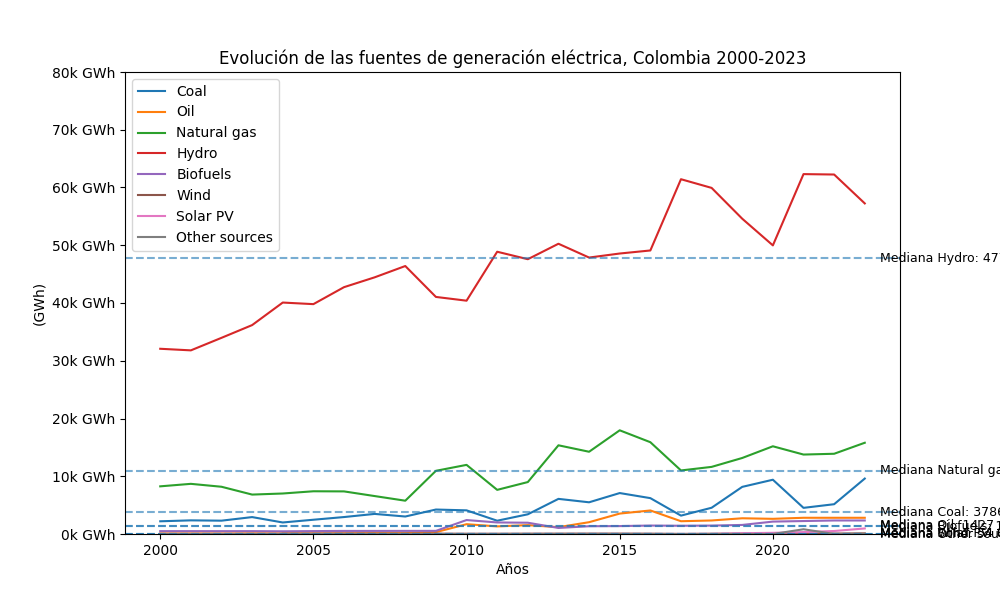
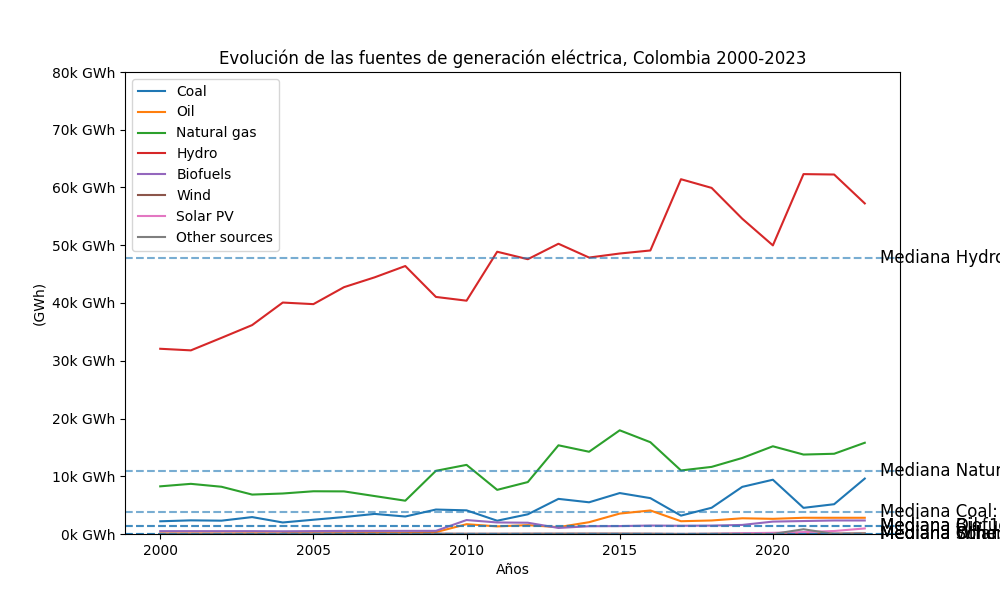
cambios

Changed region(s): [[0.868, 0.84, 1.0, 0.9], [0.868, 0.75, 1.0, 0.81], [0.868, 0.42, 1.0, 0.45]]

diff --git a/templates/medicion.html b/templates/medicion.html
@@ -7,15 +7,17 @@
     <title>Proyecto Web - Ecoconciencia</title>
 
     <!-- Favicon general -->
-    <link rel="icon" href="favicon.ico" type="image/x-icon">
-    <link rel="apple-touch-icon" sizes="180x180" href="../static/image/logo.png">
-    <link rel="icon" type="image/png" sizes="32x32" href="../static/image/logo.png">
-    <link rel="icon" type="image/png" sizes="16x16" href="../static/image/logo.png">
+    <link rel="icon" href="{{ url_for('static', filename='image/logo.png') }}" type="image/x-icon">
+    <link rel="apple-touch-icon" sizes="180x180" href="{{ url_for('static', filename='image/logo.png') }}">
+    <link rel="icon" type="image/png" sizes="32x32" href="{{ url_for('static', filename='image/logo.png') }}">
+    <link rel="icon" type="image/png" sizes="16x16" href="{{ url_for('static', filename='image/logo.png') }}">
+ 
+ <!-- Bootstrap CSS -->
+ <link href="https://cdn.jsdelivr.net/npm/bootstrap@5.3.0/dist/css/bootstrap.min.css" rel="stylesheet">
+ <link href="https://cdnjs.cloudflare.com/ajax/libs/bootstrap-icons/1.10.5/font/bootstrap-icons.min.css" rel="stylesheet">
+ <link rel="stylesheet" href="{{ url_for('static', filename='styles.css') }}">
 
-    <!-- Bootstrap CSS -->
-    <link href="https://cdn.jsdelivr.net/npm/bootstrap@5.3.0/dist/css/bootstrap.min.css" rel="stylesheet">
-    <link href="https://cdnjs.cloudflare.com/ajax/libs/bootstrap-icons/1.10.5/font/bootstrap-icons.min.css" rel="stylesheet">
-    <link rel="stylesheet" href="../static/styles.css">
+
 
     <style>
         :root {
@@ -25,9 +27,36 @@
         .bg-custom-green {
             background-color: var(--primary-color);
         }
+        .contenedor-graficas {
+            display: grid;
+            grid-template-columns: 1fr 1fr;
+            gap: 20px;
+            justify-items: center;
+            align-items: center;
+            padding: 20px;
+        }
+        .contenedor-graficas img {
+            max-width: 100%;
+            height: auto;
+            box-shadow: 0 4px 8px rgba(0, 0, 0, 0.2);
+        }
 
-         </style>
+    
+    /* Añadir límite de ancho específico para la gráfica de líneas */
+    .contenedor-grafica-lineas {
+        max-width: 100%;
+        overflow-x: auto;
+        padding: 10px;
+    }
+    .contenedor-grafica-lineas img {
+        width: 100%;  /* Ajusta el tamaño de la imagen al contenedor */
+        max-width: 800px; /* Límite de ancho para evitar desbordamiento */
+        height: auto;
+    }
 
+
+
+    </style>
 
 </head>
 
@@ -110,7 +139,7 @@
                                 </table>
                             </div>
                         </div>
-                        <div id="grafico">
+                        <div class="contenedor-graficas">                    
                             <h3>Gráfico de Barras</h3>
                             <img src="{{ url_for('static', filename='fuentes_barras.png') }}" alt="Gráfico de barras">
                             <h3>Gráfico de Torta</h3>
@@ -126,6 +155,5 @@
         </div>
     </div>
     
-    <script src="../static/script.js"></script>
-</body>
+    <script src="{{ url_for('static', filename='script.js') }}"></script>
 </html>

diff --git a/Estadistica0.py b/Estadistica0.py
@@ -16,7 +16,15 @@ def indexDos():
 
 @app.route('/medicion.html')
 def medicion():
-    return render_template('medicion.html')
+    # Leer el archivo CSV que contiene los datos de los países
+    df_paises = pd.read_csv('TuArchivoConPaises.csv')  # Cambia esto por tu archivo CSV
+    paises = df_paises['NombreDelPais'].unique().tolist()  # Cambia 'NombreDelPais' por el nombre real de la columna
+
+    # Enviar los datos a la plantilla
+    return render_template('medicion.html', paises=paises)
+
+
+
 
 @app.route('/contacto.html')
 def contacto():
@@ -75,7 +83,7 @@ colores_personalizados = ['#13f310', '#1032f3', '#641e16', '#f310d4']
 explode = (0.4, 0.2, 0.6, 1.2)
 
 ax.pie(Valores, labels=Fuentes, autopct='%1.1f%%', colors=colores_personalizados, startangle=0.85, explode=explode, pctdistance=0.90, labeldistance=1.07, shadow=True, textprops={'fontsize': 10})
-plt.title('Producción de Energia por fuente renovable (promedio del 2004-2021)', fontsize=14)
+plt.title('Producción de Energia por fuente renovable (2004-2021)', fontsize=12)
 ax.axis('equal')
 
 plt.savefig('static/fuentes_torta.png')
@@ -90,7 +98,7 @@ for fuente in df2['Fuentes'].unique():
     ax.plot(subset['Year'], subset['Value'], label=fuente)
     mediana = subset['Value'].median()
     ax.axhline(y=mediana, linestyle='--', alpha=0.6)
-    ax.text(subset['Year'].iloc[-1] + 0.5, mediana, f'Mediana {fuente}: {int(mediana)} GWh', fontsize=9, verticalalignment='center')
+    ax.text(subset['Year'].iloc[-1] + 0.5, mediana, f'Mediana {fuente}: {int(mediana)} GWh', fontsize=12, verticalalignment='center')
 
   # Leyenda
 ax.legend(loc='upper left', bbox_to_anchor=(1, 1))  # Mover la leyenda fuera del gráfico
@@ -115,7 +123,7 @@ fig3, ax = plt.subplots()
 ax.fill_between(años, valores, color='green', label='Emisiones', alpha=0.4)
 ax.plot(años, valores, color='green', label='Emisiones')
 ax.axhline(y=media_renovable, color='red', linestyle='--', label=f'Media ({media_renovable:.2f})')
-ax.text(años.iloc[-10], media_renovable + std_renovable, f'Desviación estándar: {std_renovable:.2f}', color='blue', fontsize=10, verticalalignment='bottom', horizontalalignment='right')
+ax.text(años.iloc[-10], media_renovable + std_renovable, f'Desviación estándar: {std_renovable:.2f}', color='blue', fontsize=12, verticalalignment='bottom', horizontalalignment='right')
 
 ax.set_title('Emisiones de CO2 por Combustibles Fósiles, Colombia (2000-2022)')
 ax.set_xlabel('Año')
